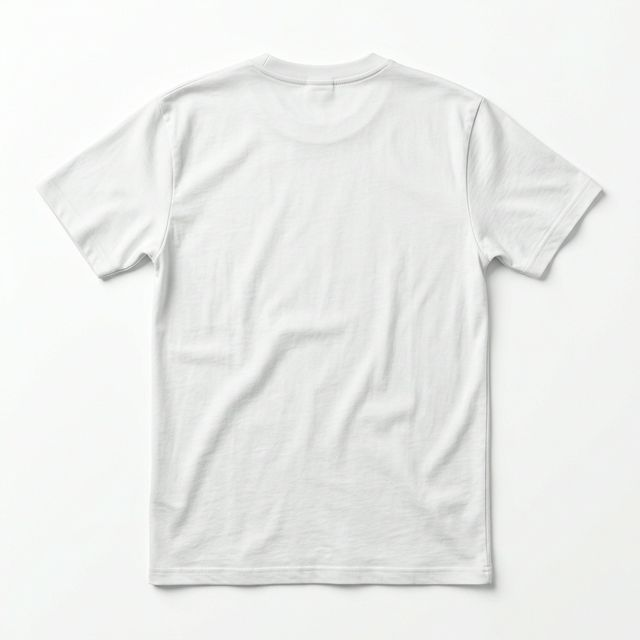
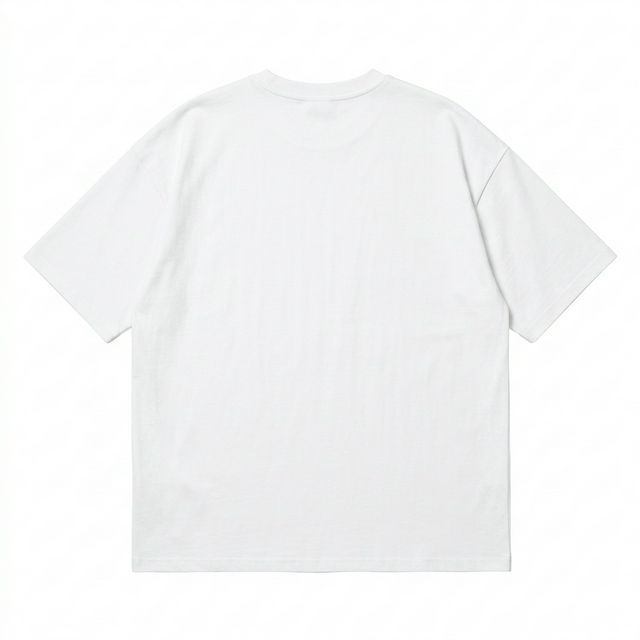
feat: oversize streetwear mockups + color clipping to shirt silhouette
- New oversize boxy t-shirt & polo mockups (front + back)
- Color layer uses CSS mask-image with shirt photo as mask
  → color ONLY appears on the shirt fabric, not background
- Canvas overflow: hidden clips design elements to canvas bounds
- Matches UniSpace product style (dropped shoulders, boxy fit)

diff --git a/src/app/design/page.tsx b/src/app/design/page.tsx
@@ -37,14 +37,17 @@ interface ChatMessage {
 }
 
 // ─── Realistic T-Shirt Mockup (Photo-based) ─────────────────
+const TSHIRT_IMG = "/images/mockup/tshirt-front.png";
+const POLO_IMG = "/images/mockup/polo-front.png";
+
 function TShirtSVG({ color }: { color: string }) {
   const isWhite = color.toLowerCase() === "#ffffff" || color === "#fff";
   return (
     <div className="mockup-shirt-wrapper">
-      {!isWhite && <><style>{`.mockup-color-layer{background-color:${color}}`}</style><div className="mockup-color-layer" /></>}
+      {!isWhite && <><style>{`.mockup-color-layer{background-color:${color};--shirt-mask:url(${TSHIRT_IMG})}`}</style><div className="mockup-color-layer" /></>}
       {/* eslint-disable-next-line @next/next/no-img-element */}
       <img
-        src="/images/mockup/tshirt-front.png"
+        src={TSHIRT_IMG}
         alt="T-shirt mockup"
         className={`mockup-shirt-img ${!isWhite ? "mockup-blend" : ""}`}
         draggable={false}
@@ -57,10 +60,10 @@ function PoloShirtSVG({ color }: { color: string }) {
   const isWhite = color.toLowerCase() === "#ffffff" || color === "#fff";
   return (
     <div className="mockup-shirt-wrapper">
-      {!isWhite && <><style>{`.mockup-color-layer{background-color:${color}}`}</style><div className="mockup-color-layer" /></>}
+      {!isWhite && <><style>{`.mockup-color-layer{background-color:${color};--shirt-mask:url(${POLO_IMG})}`}</style><div className="mockup-color-layer" /></>}
       {/* eslint-disable-next-line @next/next/no-img-element */}
       <img
-        src="/images/mockup/polo-front.png"
+        src={POLO_IMG}
         alt="Polo shirt mockup"
         className={`mockup-shirt-img ${!isWhite ? "mockup-blend" : ""}`}
         draggable={false}

diff --git a/src/app/globals.css b/src/app/globals.css
@@ -1365,9 +1365,17 @@ body {
 
 .mockup-color-layer {
   position: absolute;
-  inset: 5%;
-  border-radius: 8px;
+  inset: 0;
   z-index: 0;
+  /* Use the shirt photo as a mask so color only shows where the shirt is */
+  -webkit-mask-image: var(--shirt-mask);
+  mask-image: var(--shirt-mask);
+  -webkit-mask-size: contain;
+  mask-size: contain;
+  -webkit-mask-position: center;
+  mask-position: center;
+  -webkit-mask-repeat: no-repeat;
+  mask-repeat: no-repeat;
 }
 
 .mockup-shirt-img {
@@ -1397,6 +1405,7 @@ body {
   touch-action: none;
   background: #ffffff;
   border-radius: 16px;
+  overflow: hidden;
   filter: drop-shadow(0 8px 32px rgba(0, 0, 0, 0.12));
   transition: transform 0.3s ease;
 }
